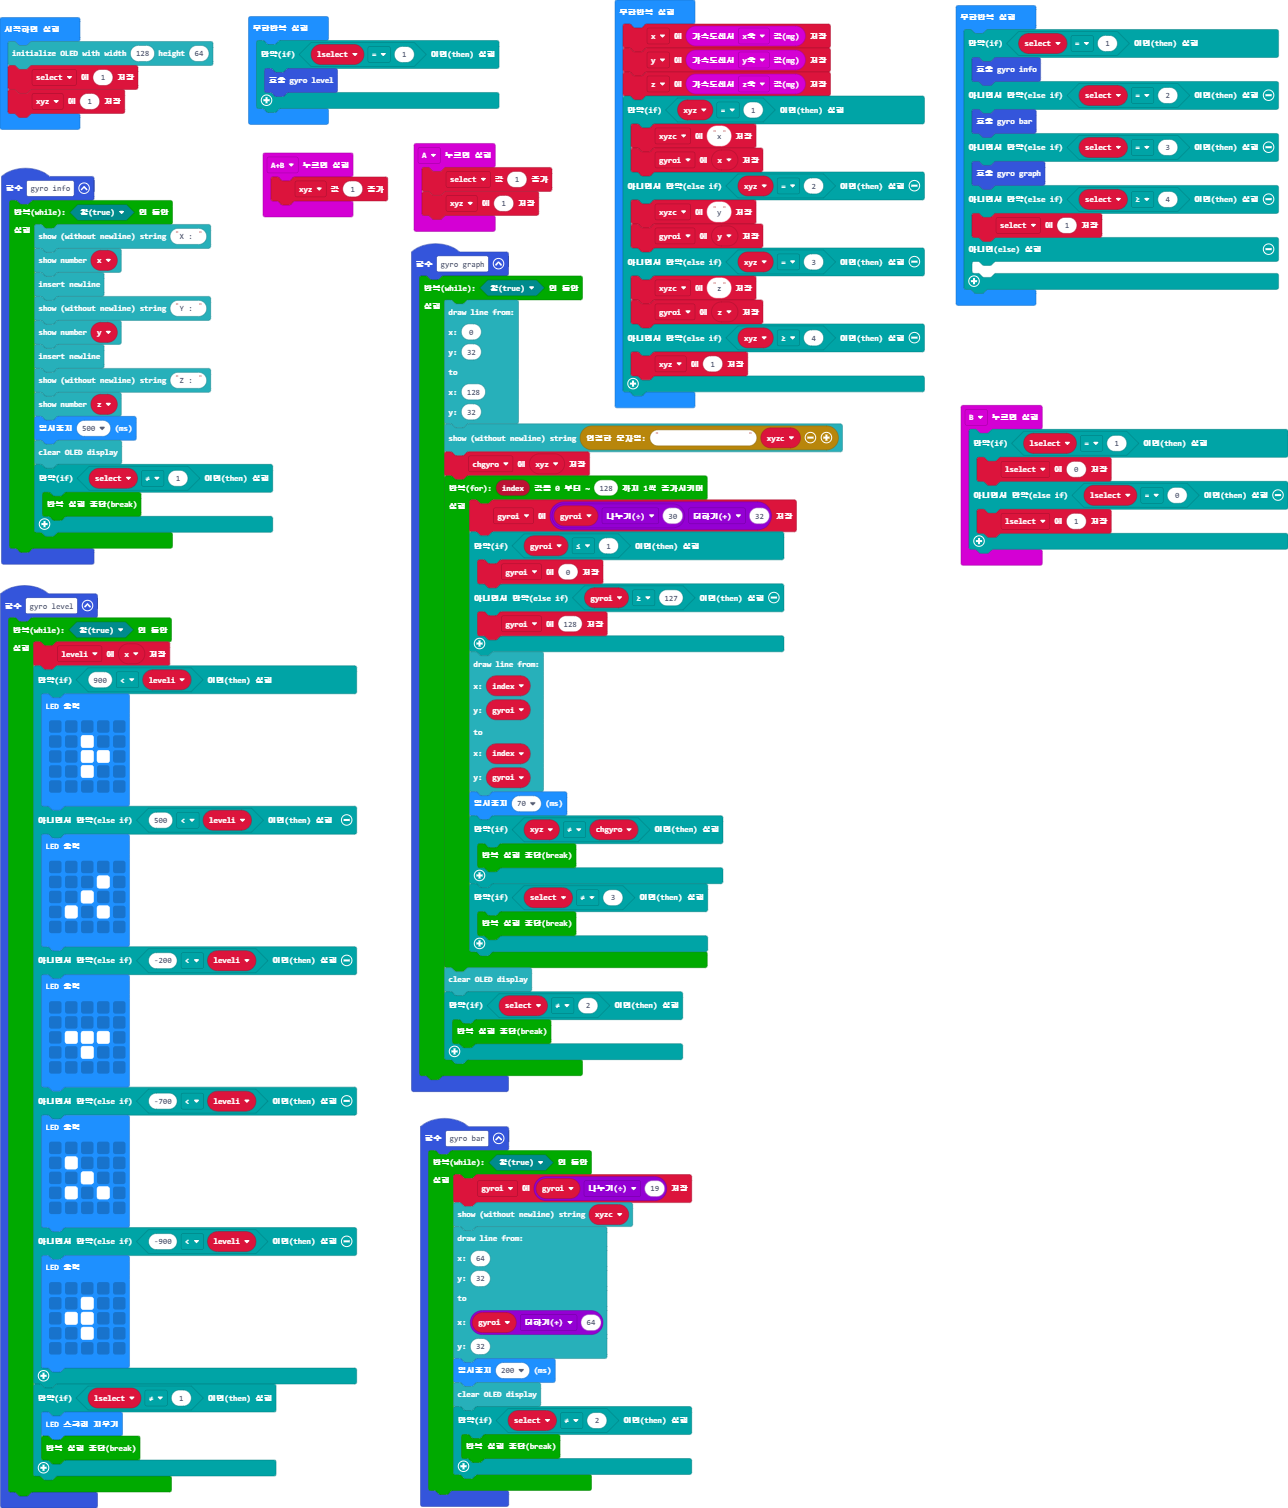
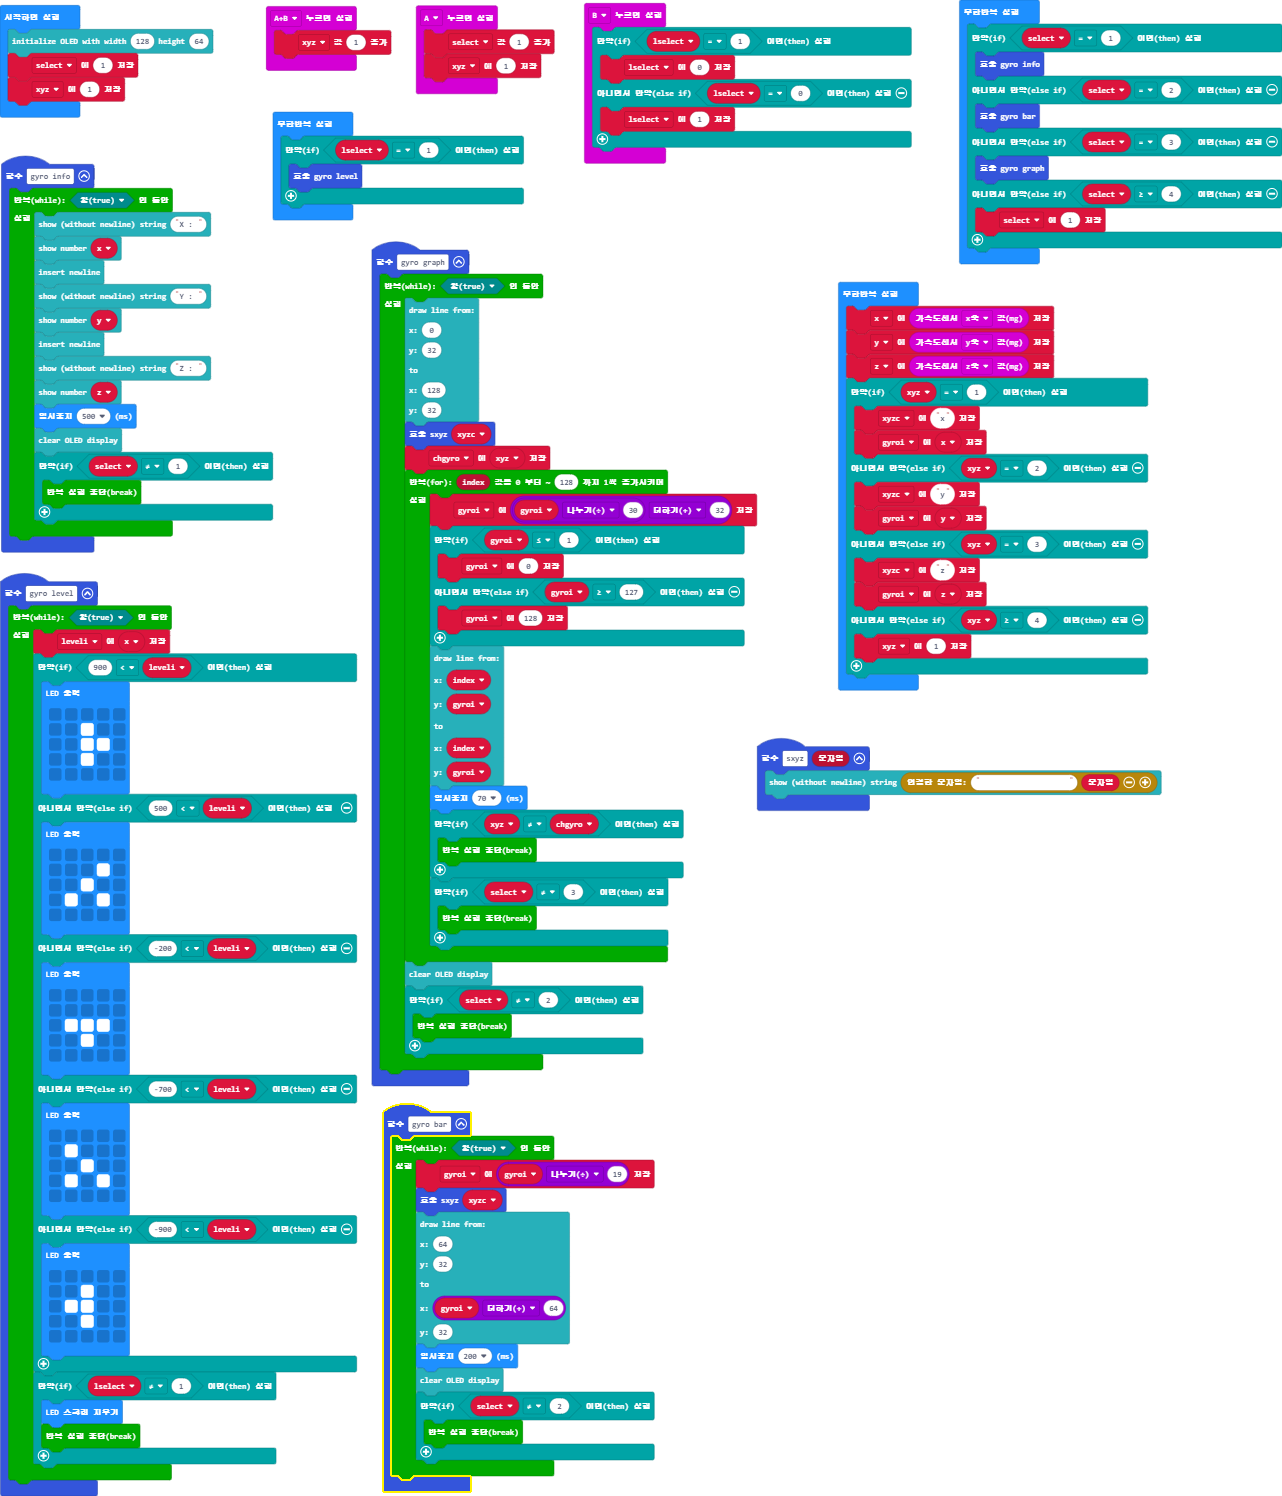
add xyz string

diff --git a/main.ts b/main.ts
@@ -6,7 +6,7 @@ function gyro_graph () {
         128,
         32
         )
-        OLED.writeString("                    " + xyzc)
+        sxyz(xyzc)
         chgyro = xyz
         for (let index = 0; index <= 128; index++) {
             gyroi = gyroi / 30 + 32
@@ -109,7 +109,7 @@ function gyro_info () {
 function gyro_bar () {
     while (true) {
         gyroi = gyroi / 19
-        OLED.writeString(xyzc)
+        sxyz(xyzc)
         OLED.drawLine(
         64,
         32,
@@ -133,6 +133,9 @@ input.onButtonPressed(Button.B, function () {
         lselect = 1
     }
 })
+function sxyz (문자열: string) {
+    OLED.writeString("                    " + 문자열)
+}
 let z = 0
 let y = 0
 let lselect = 0
@@ -146,6 +149,17 @@ let select = 0
 OLED.init(128, 64)
 select = 1
 xyz = 1
+basic.forever(function () {
+    if (select == 1) {
+        gyro_info()
+    } else if (select == 2) {
+        gyro_bar()
+    } else if (select == 3) {
+        gyro_graph()
+    } else if (select >= 4) {
+        select = 1
+    }
+})
 basic.forever(function () {
     if (lselect == 1) {
         gyro_level()
@@ -166,18 +180,5 @@ basic.forever(function () {
         gyroi = z
     } else if (xyz >= 4) {
         xyz = 1
-    }
-})
-basic.forever(function () {
-    if (select == 1) {
-        gyro_info()
-    } else if (select == 2) {
-        gyro_bar()
-    } else if (select == 3) {
-        gyro_graph()
-    } else if (select >= 4) {
-        select = 1
-    } else {
-    	
     }
 })
